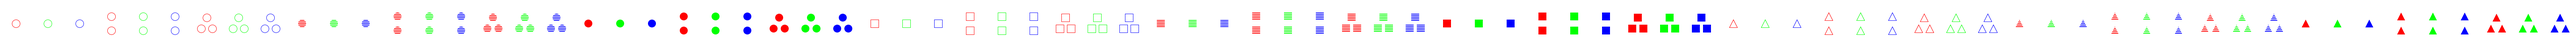
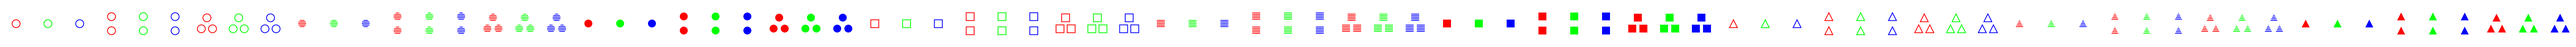
Fix retina regular 3 tau cards so they use a double stroke width. Also fix classic/regular logic for small cards (e.g. puzzle 3 tau).

diff --git a/static/styles.css b/static/styles.css
@@ -278,7 +278,7 @@ only screen and (-o-min-device-pixel-ratio: 3/2),
 only screen and (min-device-pixel-ratio: 1.5) {
 
 .regularTau {
-  background:url('/static/cards@2x.png?v=2') no-repeat scroll 0 0 white;
+  background:url('/static/cards@2x.png?v=4') no-repeat scroll 0 0 white;
   background-size:6480px 120px;
 }
 
@@ -293,7 +293,7 @@ only screen and (min-device-pixel-ratio: 1.5) {
 }
 
 .smallRegularTau {
-  background:url('/static/smallcards@2x.png?v=5') no-repeat scroll 0 0 white;
+  background:url('/static/smallcards@2x.png?v=7') no-repeat scroll 0 0 white;
   background-size:3240px 60px;
 }
 

diff --git a/static/tau.js b/static/tau.js
@@ -302,7 +302,7 @@ $(document).ready(function() {
 
   function getSmallImgClass() {
     var colour_blind = $.cookie("colour_blind") === "true";
-    var classic_cards = $.cookie("classic_cards") !== "false";
+    var classic_cards = $.cookie("classic_cards") === "true";
     if (classic_cards && colour_blind) {
       return "smallColourBlindClassicTau";
     } else if (classic_cards) {

diff --git a/java/SpriteGenerator.java b/java/SpriteGenerator.java
@@ -3,6 +3,7 @@ import java.awt.Graphics2D;
 import java.awt.Rectangle;
 import java.awt.RenderingHints;
 import java.awt.Shape;
+import java.awt.BasicStroke;
 import java.awt.TexturePaint;
 import java.awt.geom.Ellipse2D;
 import java.awt.image.BufferedImage;
@@ -164,6 +165,9 @@ public class SpriteGenerator {
 
     for (Shape aShape : shapes) {
       if (fill == 0) {
+        if (retina) {
+          graphics.setStroke(new BasicStroke(2));
+        }
         graphics.draw(aShape);
       } else if (fill == 1) {
         graphics.fill(aShape);
